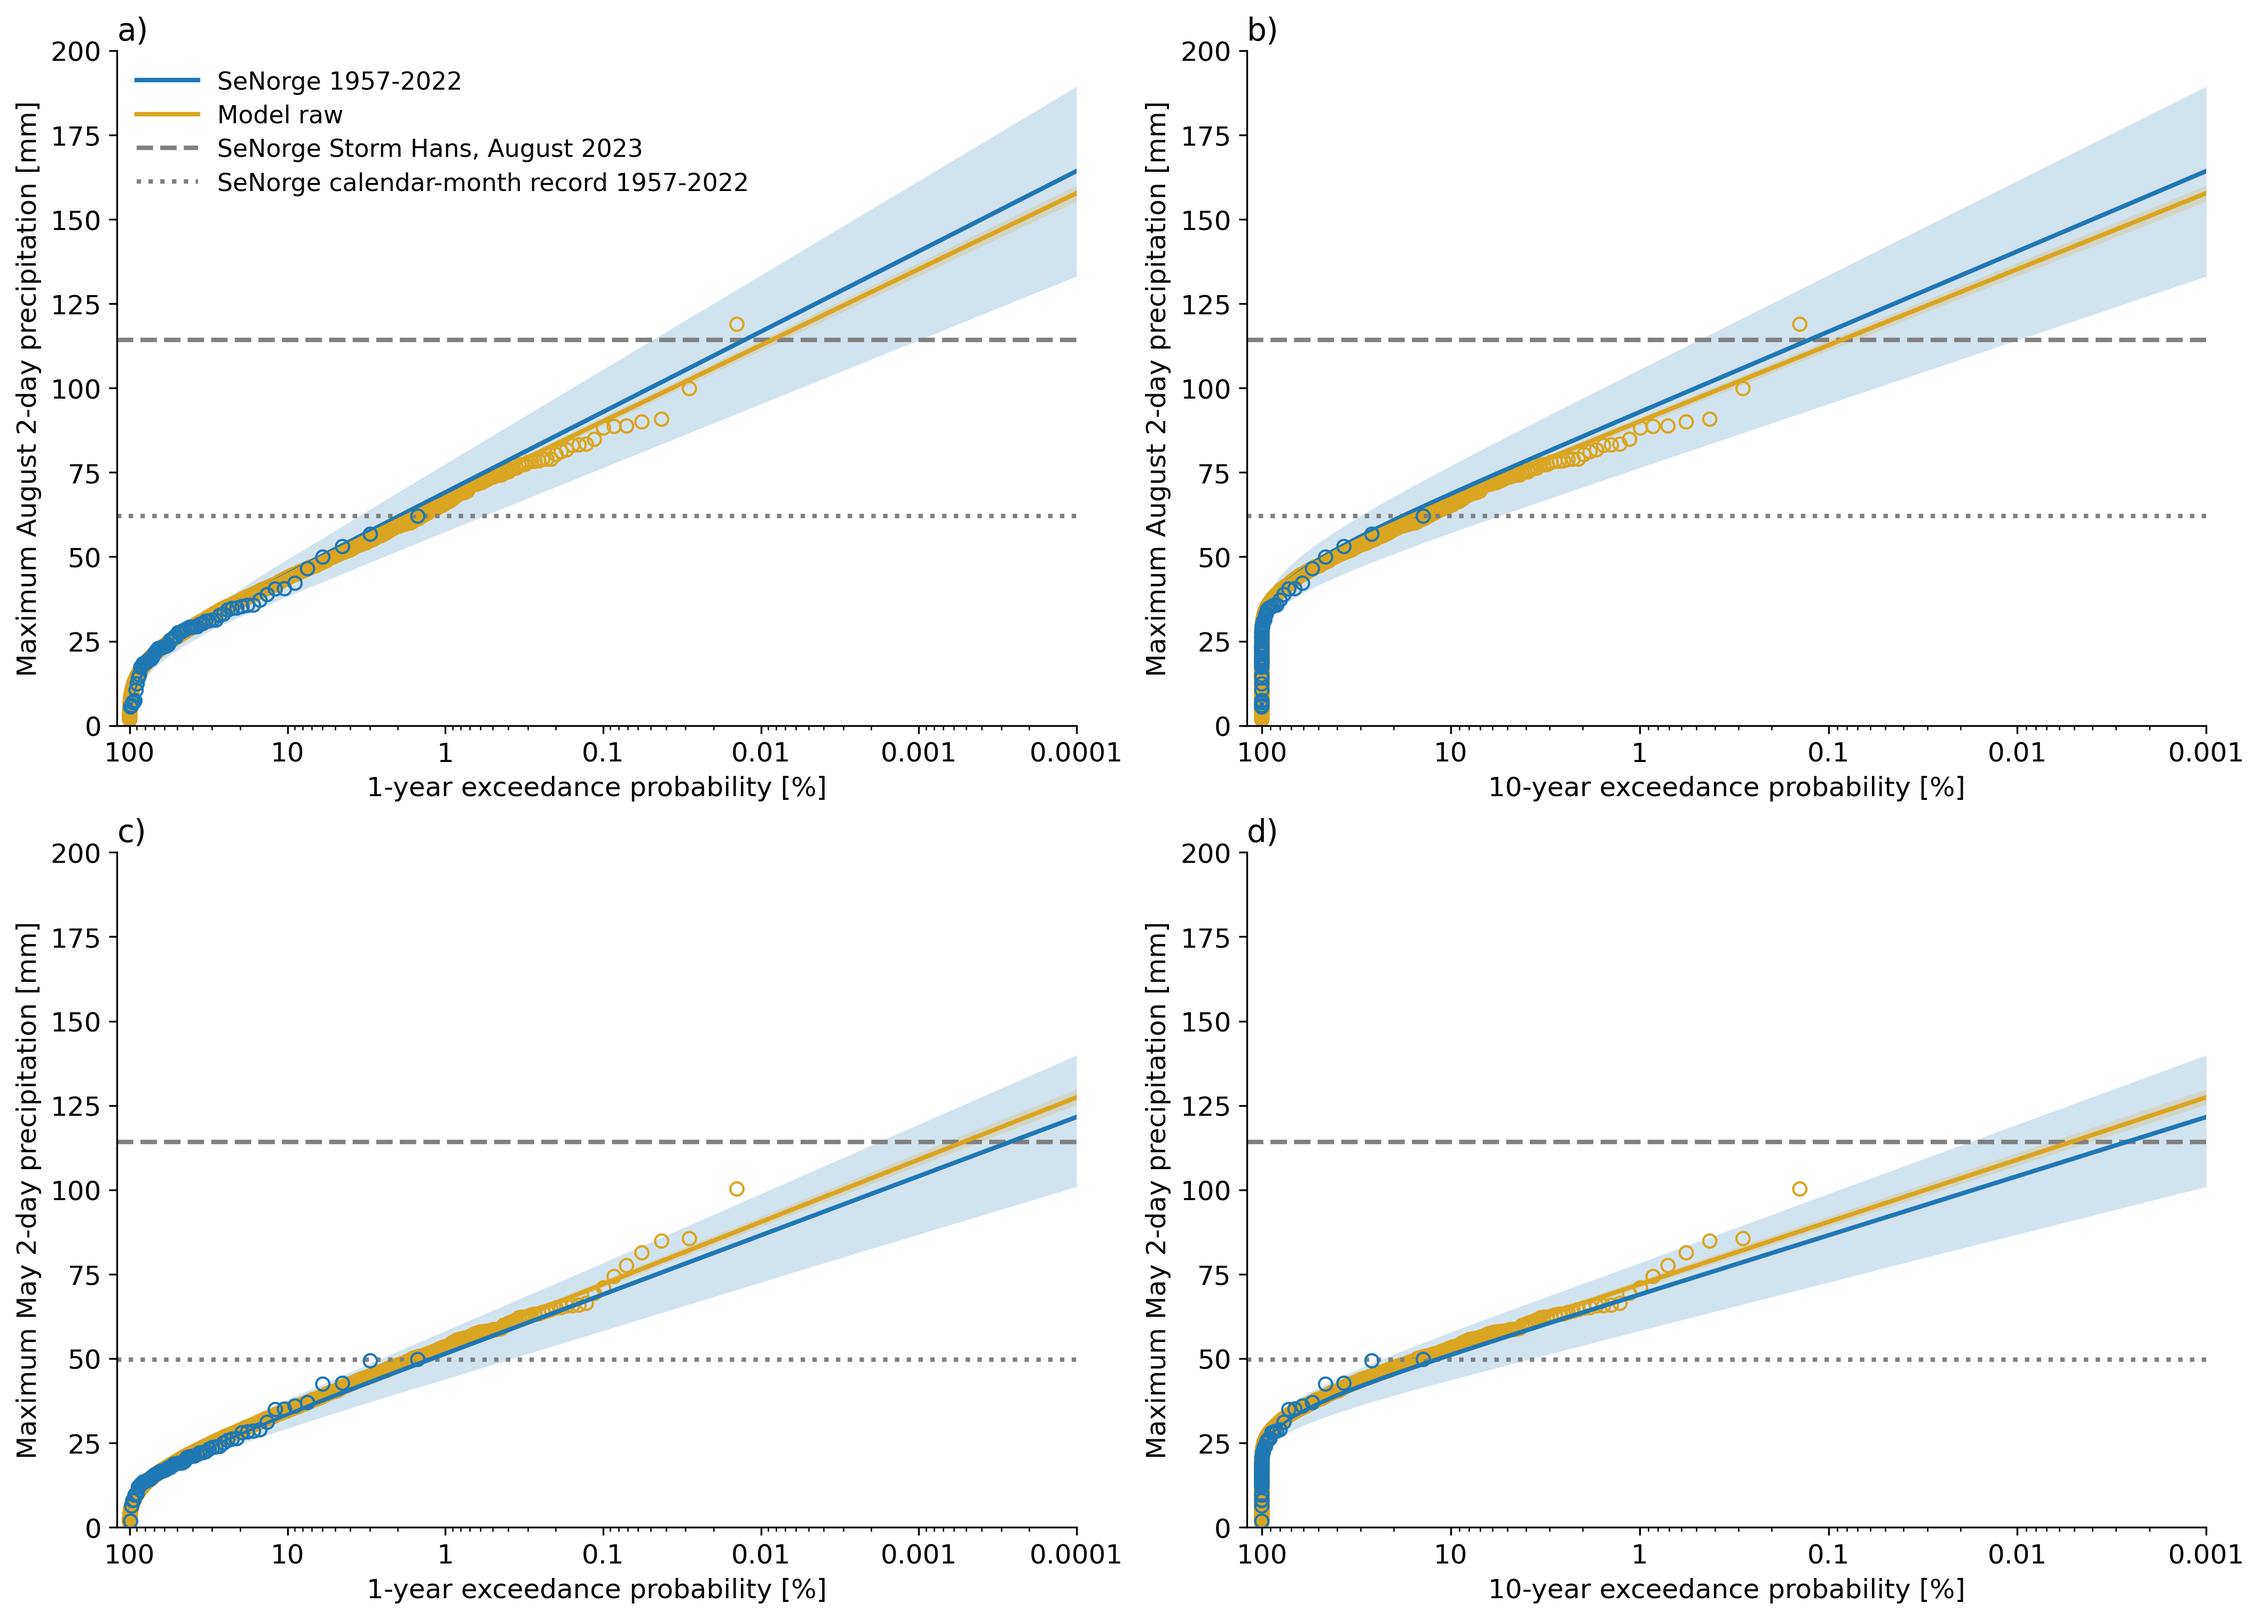
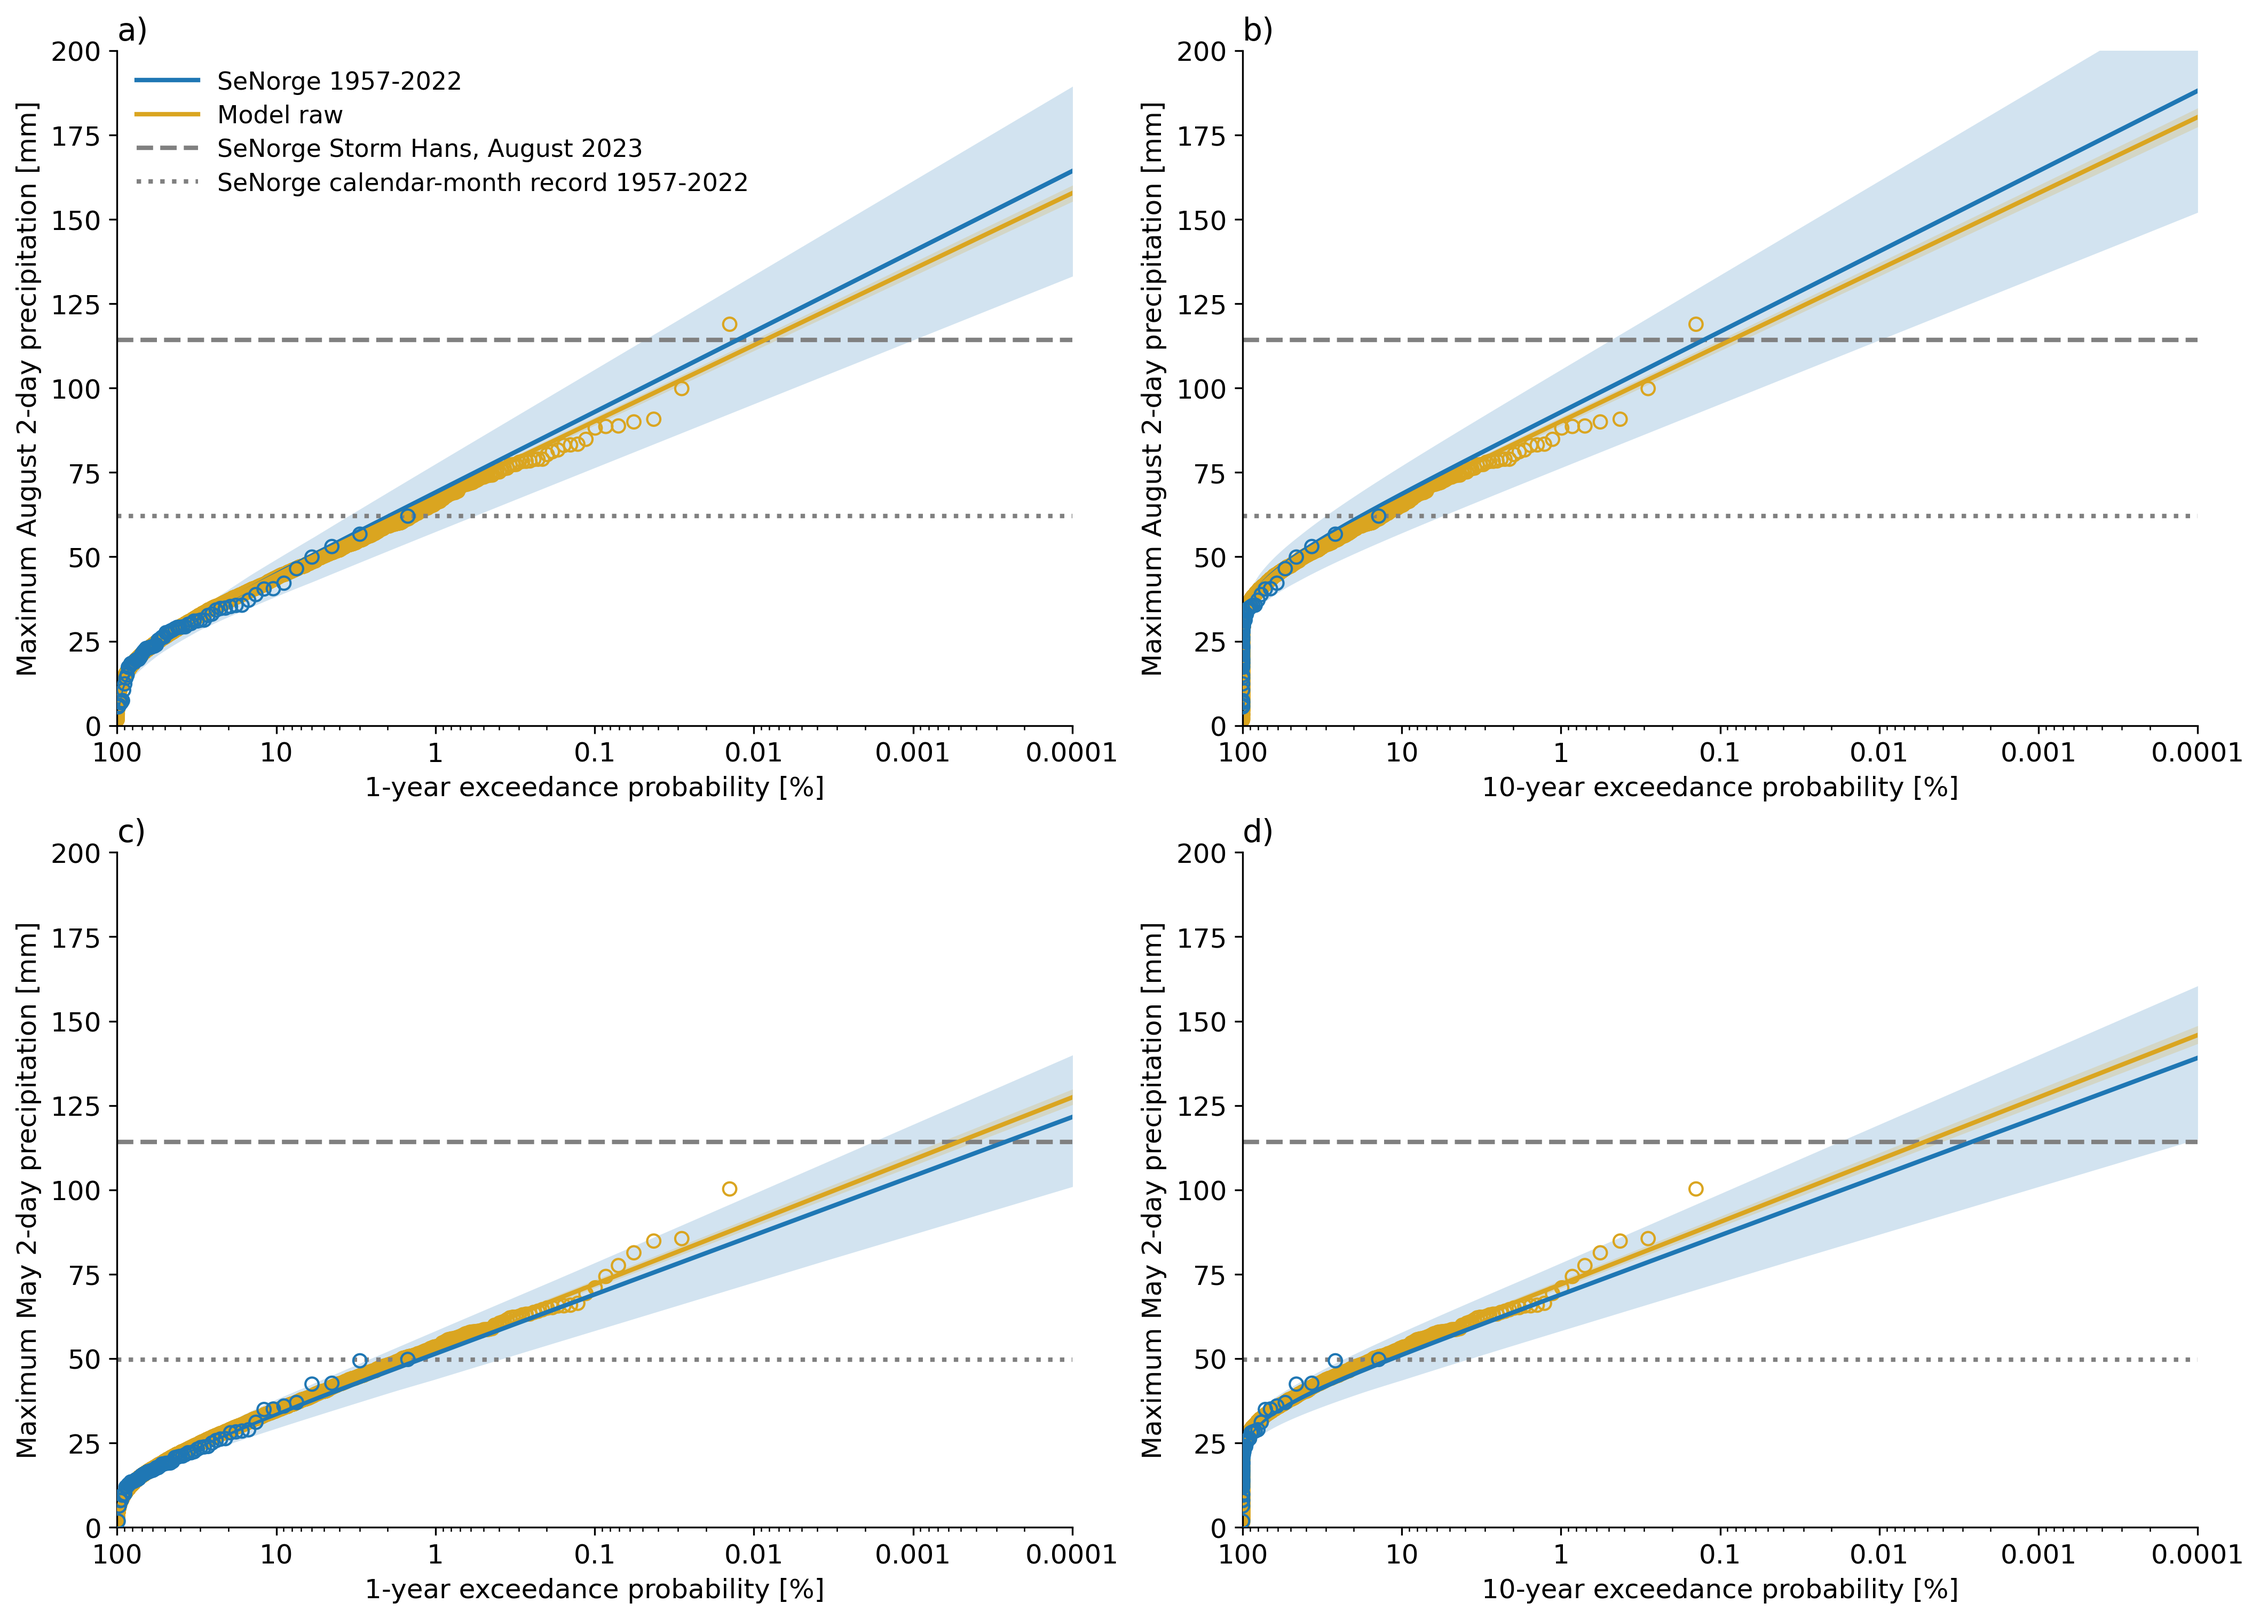
update

diff --git a/code/plot/paper_figs/plot-fig-03.py b/code/plot/paper_figs/plot-fig-03.py
@@ -160,7 +160,7 @@ RECORD_LINESTYLE = ":"
 # -----------------------------------------------------------------------------
 
 MIN_RETURN_PERIOD = 1.01
-MAX_RETURN_PERIOD = 1000000.0
+MAX_RETURN_PERIOD = 10000000.0
 NUMBER_OF_RETURN_PERIODS = 500
 
 NUMBER_OF_BOOTSTRAPS = 100
@@ -217,6 +217,15 @@ REFERENCE_LINEWIDTH = 2
 RECORD_LINEWIDTH = 2
 MARKER_SIZE = 35
 MARKER_LINEWIDTH = 1.0
+
+# X-axis limits for return-period mode [years].
+XMIN_RETURN_PERIOD = 1.0
+XMAX_RETURN_PERIOD = 1.0e6
+
+# X-axis limits for AEP mode [%].
+# For example, 0.01 means 0.01%, not a fractional probability of 0.01.
+XMIN_AEP = 0.0001
+XMAX_AEP = 100.0
 
 YMIN = 0.0
 YMAX = 200
@@ -360,6 +369,31 @@ def validate_user_settings():
     if MAX_RETURN_PERIOD <= MIN_RETURN_PERIOD:
         raise ValueError(
             "MAX_RETURN_PERIOD must exceed MIN_RETURN_PERIOD."
+        )
+
+    if XMIN_RETURN_PERIOD <= 0:
+        raise ValueError(
+            "XMIN_RETURN_PERIOD must be greater than 0 for a logarithmic axis."
+        )
+
+    if XMAX_RETURN_PERIOD <= XMIN_RETURN_PERIOD:
+        raise ValueError(
+            "XMAX_RETURN_PERIOD must exceed XMIN_RETURN_PERIOD."
+        )
+
+    if XMIN_AEP <= 0:
+        raise ValueError(
+            "XMIN_AEP must be greater than 0 for a logarithmic axis."
+        )
+
+    if XMAX_AEP <= XMIN_AEP:
+        raise ValueError(
+            "XMAX_AEP must exceed XMIN_AEP."
+        )
+
+    if XMAX_AEP > 100:
+        raise ValueError(
+            "XMAX_AEP cannot exceed 100%."
         )
 
     if NUMBER_OF_BOOTSTRAPS < 1:
@@ -1466,26 +1500,16 @@ def format_x_axis(
 
     if X_AXIS_MODE == "return_period":
         ax.set_xlim(
-            0.8,
-            MAX_RETURN_PERIOD,
+            XMIN_RETURN_PERIOD,
+            XMAX_RETURN_PERIOD,
         )
 
     else:
-        minimum_probability = float(
-            convert_return_periods_to_plot_x(
-                np.array([MAX_RETURN_PERIOD]),
-                m_years,
-            )[0]
+        # AEP decreases as return period increases, so reverse the axis.
+        ax.set_xlim(
+            XMAX_AEP,
+            XMIN_AEP,
         )
-
-        maximum_probability = float(
-            convert_return_periods_to_plot_x(
-                np.array([MIN_RETURN_PERIOD]),
-                m_years,
-            )[0]
-        )
-
-        ax.set_xlim(120,minimum_probability)
 
         def percent_formatter(x, pos):
             if x <= 0:
